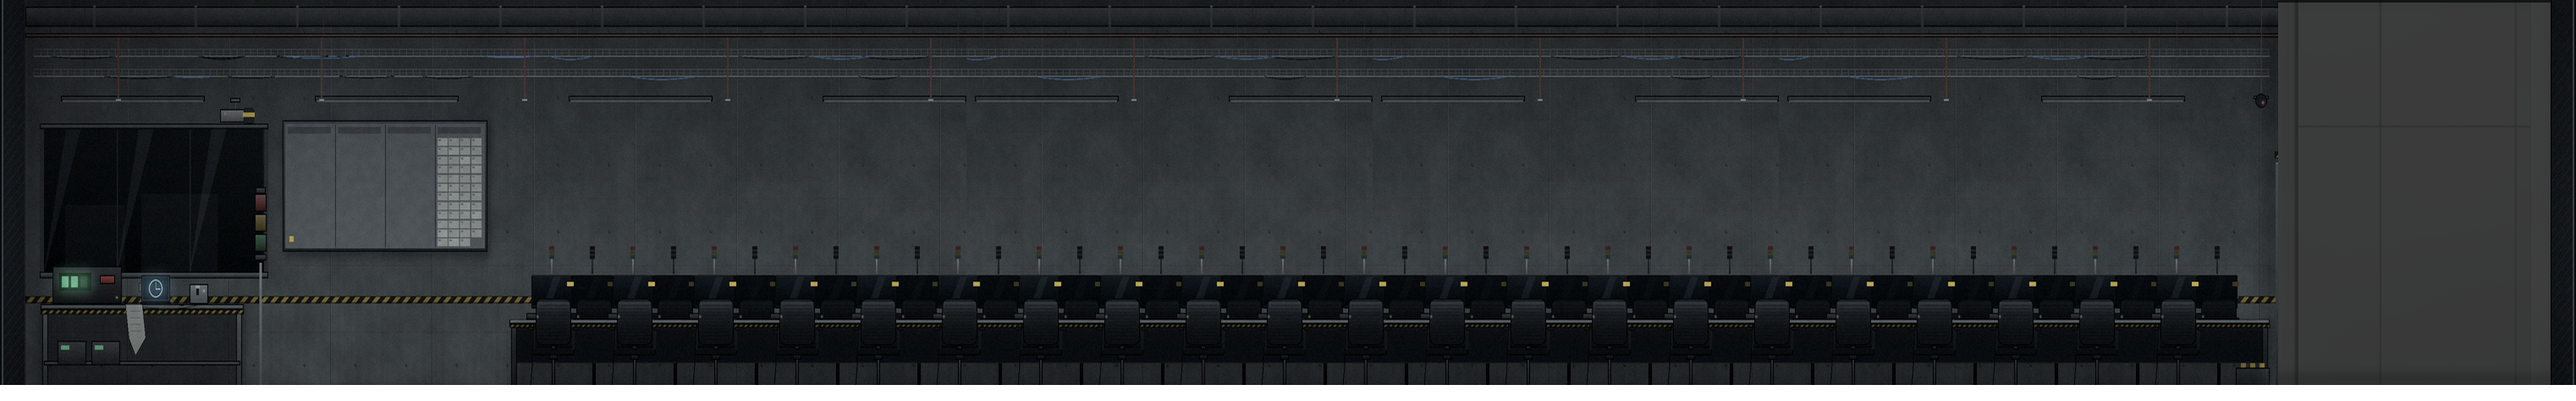
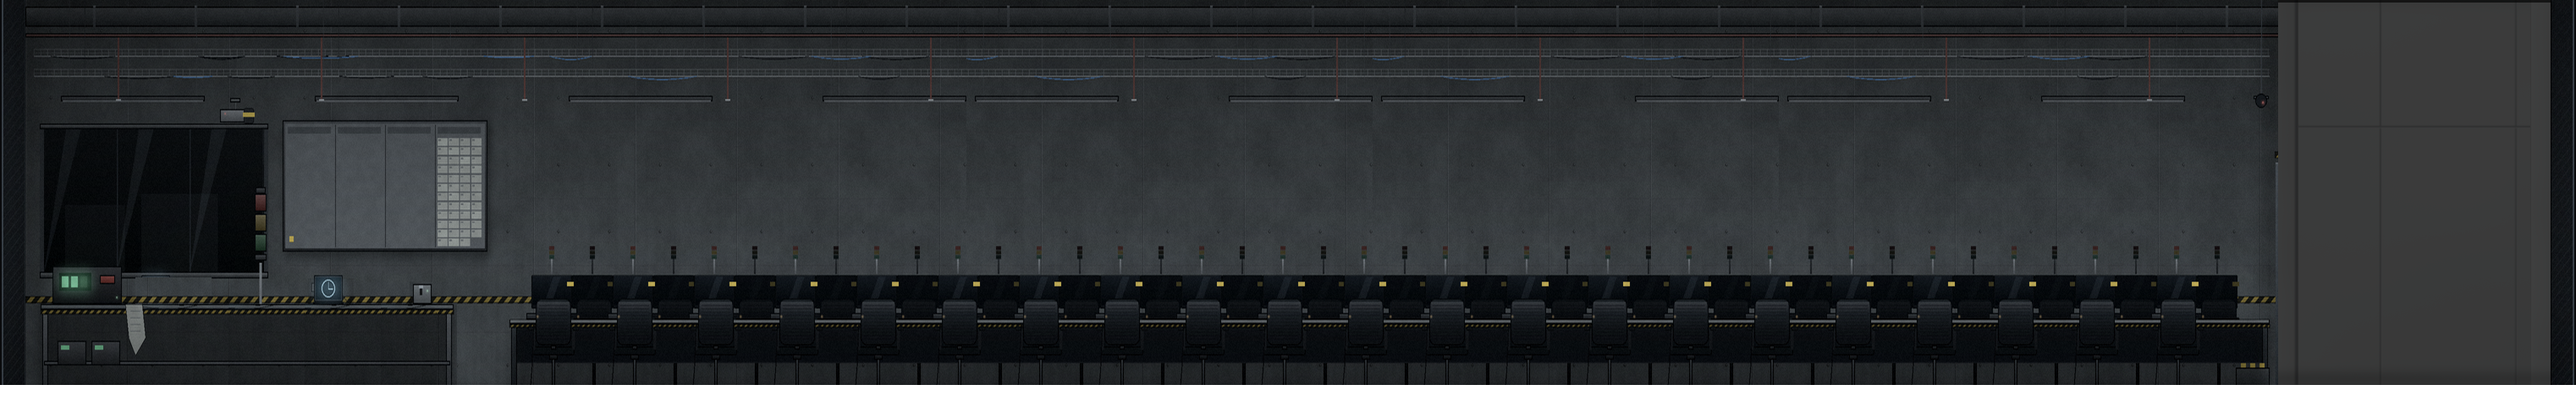
8층 QA 벤치 장치 간격·제품기획실 창밖 비, USB 목표에 17층 전력 안내
- 13층 USB 뒤 목표 '장치 확인하기' 문구 끝에 "(17층에 전력이 필요해)"를 붙였다.
- 8층 QA 벤치: build.py가 작업대를 x 540까지 늘리고 시험 단말(+204)·재실 센서(+264)를
  옮겨 장치 그림 사이를 60px 넘게 벌린다(카메라→단말 69px, 단말→센서 68px). 벽 줄무늬가
  12px 간격이라 옮기는 거리는 12의 배수. floor-08.js 조사 위치도 맞췄다.
- 8층 제품기획실: 유리 칸 8개마다 CSS 빗줄기·물방울(.rain-window). 칸 밖으로 넘치지 않게
  잘라 내고 옅게(투명도 .45) 둔다. 새 그림 없음.

Changed region(s): [[0.0312, 0.7074, 0.1873, 0.9726]]

diff --git a/js/floors/floor-08.js b/js/floors/floor-08.js
@@ -52,17 +52,18 @@ const floor8Room = (id, name, art, width, fixtures, extra = {}) => ({ id, name, 
   backgroundWallsOnly: true, backgroundImage: floor8Scene(art, width), fixtures, ...extra });
 const FLOOR8_ROOMS = interiorRooms(8, [
   floor8Room('f8-qa', 'QA 시험실', 'qa', 3044, [
-    // 재현 벤치 위의 장치 넷은 붙어 있어서(왼쪽부터 벤치·단말·센서·카메라) 조사 상자를 물건보다 좁게 잡았다. 먼저 적힌 것이 이긴다.
+    // 재현 벤치 위 장치: 벤치(62..138), 창 위 카메라(270..300), 늘린 작업대 위 단말(372..396)·센서(490..508). 그림끼리 60px 넘게
+    // 떨어져 있다(build.py가 작업대를 540까지 늘리고 단말·센서를 옮겼다). 조사 상자는 물건보다 좁게 잡았다.
     floor8Spot('재현 벤치', [62, 138], [321, 400], { selfPowered: true, sequence: 'f8-repro-steps', step: 4,
       control: { kind: 'press', label: '벤치의 실행 버튼을 누르자.', text: '실행' },
       surface: 'document',
       writing: [{ as: 'title', text: '원본 재현 기록' }, '같은 질의 200개.',
         { as: 'table', head: true, rows: [['카메라', '재실', '시각', '정답률'], ['켜짐', '3명', '—', '4%'], ['꺼짐', '0명', '03:00', '91%']] }],
       message: '벤치가 원본 재현 기록을 출력한다. 같은 질의 200개. 카메라 켜짐·재실 3명: 정답률 4%. 카메라 꺼짐·재실 0명·03:00: 정답률 91%. 출력지를 챙겼다.' }),
-    floor8Spot('시험 단말', [168, 192], [329, 353], { selfPowered: true, sequence: 'f8-repro-steps', step: 1,
+    floor8Spot('시험 단말', [372, 396], [329, 353], { selfPowered: true, sequence: 'f8-repro-steps', step: 1,
       control: { kind: 'clock', label: '시험 단말의 시계를 03:00으로 돌리자.' },
       message: '배터리로 켜진 시험 단말의 시계가 03:00을 가리킨다. 벤치 화면: "조건 1/3 · 시각".' }),
-    floor8Spot('재실 센서 제어함', [226, 244], [337, 354], { selfPowered: true, sequence: 'f8-repro-steps', step: 2,
+    floor8Spot('재실 센서 제어함', [490, 508], [337, 354], { selfPowered: true, sequence: 'f8-repro-steps', step: 2,
       control: { kind: 'switch', dir: 'down', label: '재실 센서 스위치를 "0명"으로 내리자.', ends: ['자동', '0명'] },
       message: '벤치에 물린 시험용 재실 센서가 "0명"으로 고정됐다. 벤치 화면: "조건 2/3 · 재실 인원".' }),
     floor8Spot('관찰 카메라', [270, 300], [178, 194], { selfPowered: true, sequence: 'f8-repro-steps', step: 3,
@@ -73,6 +74,10 @@ const FLOOR8_ROOMS = interiorRooms(8, [
   ], { windowless: true, exitX: 2788, exitBay: 322, sequences: [{ id: 'f8-repro-steps', steps: 4, gives: 'f8-repro-record',
     wrongMessage: '벤치 화면에 "절차 불일치 · 처음부터"가 떴다가 꺼진다. 조건을 정해진 순서대로 다시 맞춰야 한다.' }] }),
   floor8Room('f8-planning', '제품기획실', 'planning', 2178, [
+    // 창밖 비(game.css .rain-window): 그림 속 창의 유리 칸(세로 창틀 사이)마다 하나씩, 비상구 표지판 아래(월드 y 248)부터
+    // 책상·모니터 윗선 위(월드 y 430)까지만 빗줄기와 물방울을 흘린다. 조사 대상이 아니다.
+    ...[[374, 512], [517, 649], [654, 788], [795, 926], [931, 1063], [1068, 1292], [1297, 1429], [1434, 1572]]
+      .map(([x0, x1]) => ({ name: '창밖에 내리는 비', style: 'rain-window', x: x0, y: 248, width: x1 - x0, height: 182 })),
     floor8Spot('기획 책상', [1272, 1312], [340, 410],
       '바인더와 서류 트레이가 줄 맞춰 놓여 있다. 맨 위 안건지: "ARCHI 탑재판 출시 일정 재검토 · QA 의견 첨부." 첨부 칸에는 QA 의견 대신 "자동 요약 · ARCHI"가 붙어 있다.'),
     floor8Spot('요구사항 정의서', [1420, 1450], [352, 372],

diff --git a/css/game.css b/css/game.css
@@ -1076,3 +1076,26 @@ img { -webkit-user-drag: none; }
 }
 #dynamic-scene .fixture.power-notice:has(span),
 #dynamic-scene .fixture.power-notice:has(span) span { transform: none; }
+/* 8층 제품기획실 창밖 비(floor-08.js): 유리 칸 하나마다 한 상자. 그림 없이 그라데이션만 쓴다. 상자 밖으로는 잘라 내고(overflow) 옅게(opacity) 둔다.
+   ::before 가까운 빗줄기, ::after 먼 빗줄기(가는 세로 점선을 세로줄 마스크로 잘라 짧은 줄로 만들고 아래로 흘린다), 상자 자체는 유리를 타고 천천히 흐르는 물방울. */
+#dynamic-scene .fixture.rain-window { overflow: hidden; opacity: .45;
+  background: radial-gradient(circle at 50% 50%, #e4f1ff99 0 1.4px, transparent 2px) 0 0 / 41px 57px,
+    radial-gradient(circle at 50% 50%, #e4f1ff66 0 1px, transparent 1.6px) 19px 23px / 53px 71px;
+  animation: rain-drops 9s linear infinite; }
+#dynamic-scene .fixture.rain-window::before, #dynamic-scene .fixture.rain-window::after { content: ''; position: absolute; inset: -60px -30px 0;
+  transform: skewX(-8deg); pointer-events: none; }
+#dynamic-scene .fixture.rain-window::before {
+  background: repeating-linear-gradient(180deg, transparent 0 46px, #d6e8ff88 46px 64px) 0 0 / 100% 110px;
+  -webkit-mask-image: repeating-linear-gradient(90deg, #000 0 1px, transparent 1px 23px); mask-image: repeating-linear-gradient(90deg, #000 0 1px, transparent 1px 23px);
+  animation: rain-near .45s linear infinite; }
+#dynamic-scene .fixture.rain-window::after { opacity: .6;
+  background: repeating-linear-gradient(180deg, transparent 0 30px, #c4dcff77 30px 40px) 0 0 / 100% 70px;
+  -webkit-mask-image: repeating-linear-gradient(90deg, transparent 0 11px, #000 11px 12px, transparent 12px 17px);
+  mask-image: repeating-linear-gradient(90deg, transparent 0 11px, #000 11px 12px, transparent 12px 17px);
+  animation: rain-far .7s linear infinite; }
+@keyframes rain-near { to { background-position: 0 110px; } }
+@keyframes rain-far { to { background-position: 0 70px; } }
+@keyframes rain-drops { to { background-position: 0 57px, 19px 94px; } }
+@media (prefers-reduced-motion: reduce) {
+  #dynamic-scene .fixture.rain-window, #dynamic-scene .fixture.rain-window::before, #dynamic-scene .fixture.rain-window::after { animation: none; }
+}

diff --git a/js/ui/objective.js b/js/ui/objective.js
@@ -37,7 +37,7 @@ const OBJECTIVES = [
     text: 'ARCHI의 신호는 어디를 거쳐 밖으로 나가는 걸까? 보안 자료실에서 외부 통로를 찾아보자.' },
   // 13층 백업 장치를 17층 컴퓨터에 꽂아 깨진 리허설 영상을 봐야(f17-usb-played, usb-video.js) 2층에 갈 이유가 생긴다.
   { when: () => collectedItems.has('f7-external-connection-solved') && !collectedItems.has('f17-usb-played') && !collectedItems.has('f2-projected'),
-    title: '장치 확인하기', text: '13층에서 챙긴 USB를 확인하자. 17층 내 자리 컴퓨터의 외부 저장 장치를 열고 USB를 연결해 보자.' },
+    title: '장치 확인하기', text: '13층에서 챙긴 USB를 확인하자. 17층 내 자리 컴퓨터의 외부 저장 장치를 열고 USB를 연결해 보자. (17층에 전력이 필요해)' },
   { when: () => collectedItems.has('f7-external-connection-solved') && collectedItems.has('f17-usb-played') && !collectedItems.has('f2-projected'), title: '2층 조사하기',
     text: '영상 속 새벽 3시 리허설에서 내 목소리가 나왔다. 원본이 04:00에 지워지기 전에 2층 서버실 녹화 NAS를 찾자.' },
   // 승강기 제어반은 관제실 CCTV 모니터 벽(소등 컷씬)을 본 뒤에야 돌릴 수 있다(floor-b1.js).

diff --git a/assets/background/floor08/build.py b/assets/background/floor08/build.py
@@ -24,6 +24,19 @@ kit.save(A[:, 2364:3052], HERE + 'behind-c.png')
 # QA 시험실(2722): 원본 48..1300에 시험석 칸(710..1190)을 1190 자리에 세 번 끼운다. 480 = 시험석 간격 96 × 5 = 거푸집 이음매
 # 120 × 4 = 천장 행거 240 × 2이고, 양 끝(710·1190)이 LED 등 사이 빈자리라 이음매가 보이지 않는다. 오른쪽 칸막이 문 대신 끝벽.
 qa = kit.cols((48, 1190), *[(710, 1190)] * 3, (1190, 1300), RIGHT_CAP)
+# QA 벤치(floor-08.js 재현 절차): 벤치·시험 단말·재실 센서·관찰 카메라가 18~30px로 붙어 조사하기 어려웠다. 작업대를 오른쪽으로
+# 540까지 늘리고(가운데 칸 180..270 반복, 오른쪽 다리 268..292를 새 끝에) 단말(160..214)·센서(220..248)를 옮겨 그림끼리 60px 넘게
+# 벌린다(창 위 카메라 260..302 → 단말 371..404 → 센서 486..510). 벽 줄무늬가 12px 간격이라 옮기는 거리는 12의 배수다.
+bench = qa.copy()
+qa[331:355, 160:250] = bench[331:355, 376:466]   # 단말·센서를 뗀 자리: 같은 행의 빈 벽(216 = 12 × 18 오른쪽)
+for x in range(270, 516, 90):
+    w = min(90, 516 - x)
+    qa[355:438, x:x + w] = bench[355:438, 180:180 + w]
+qa[355:438, 516:540] = bench[355:438, 268:292]
+# 창틀 아랫단(330·331행)이 따라오지 않게, 단말은 몸체 칸(167..201)만 위쪽 행부터 옮기고 센서는 몸체가 시작하는 335행부터 옮긴다.
+qa[332:355, 364:418] = bench[332:355, 160:214]   # 시험 단말 +204
+qa[329:332, 371:405] = bench[329:332, 167:201]
+qa[335:355, 484:512] = bench[335:355, 220:248]   # 재실 센서 +264
 
 # 제품기획 업무 공간(1856): 끝벽 + 원본 1324..1762(창·책상 둘) + 같은 칸을 1762에서 1372까지 뒤집은 것 + 원본 1372..2340 + 끝벽.
 # 뒤집은 칸과 그 뒤 원본은 비상구 유도등을 지운 사본에서 가져온다(유도등은 첫 칸에 한 번만).
